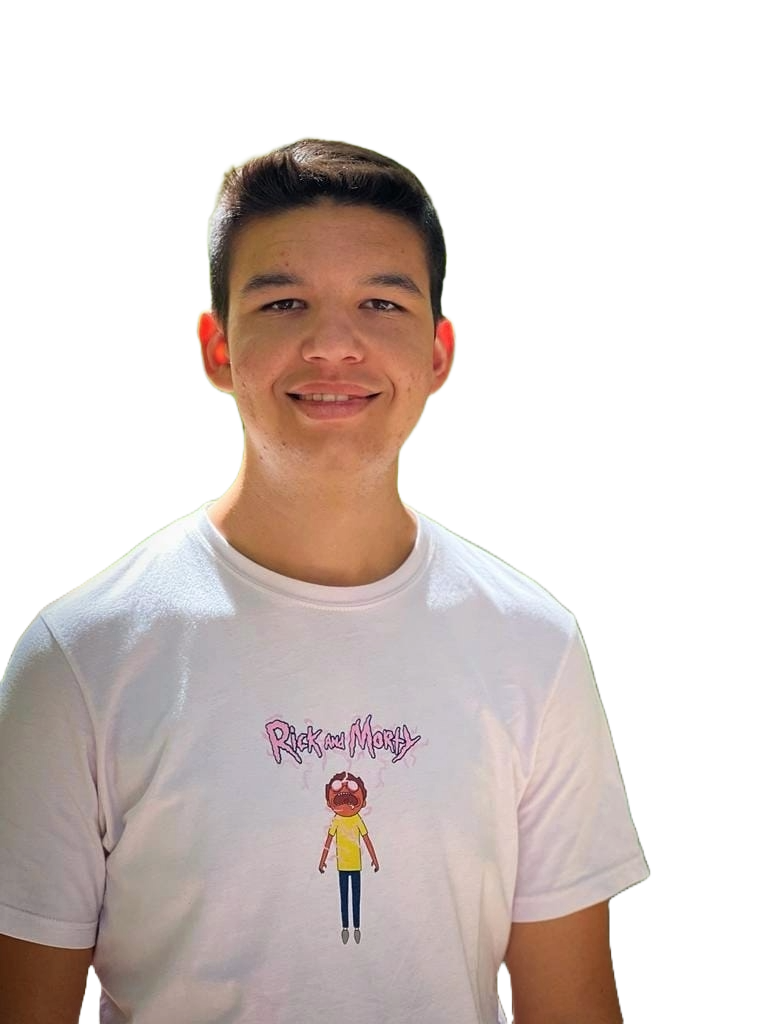
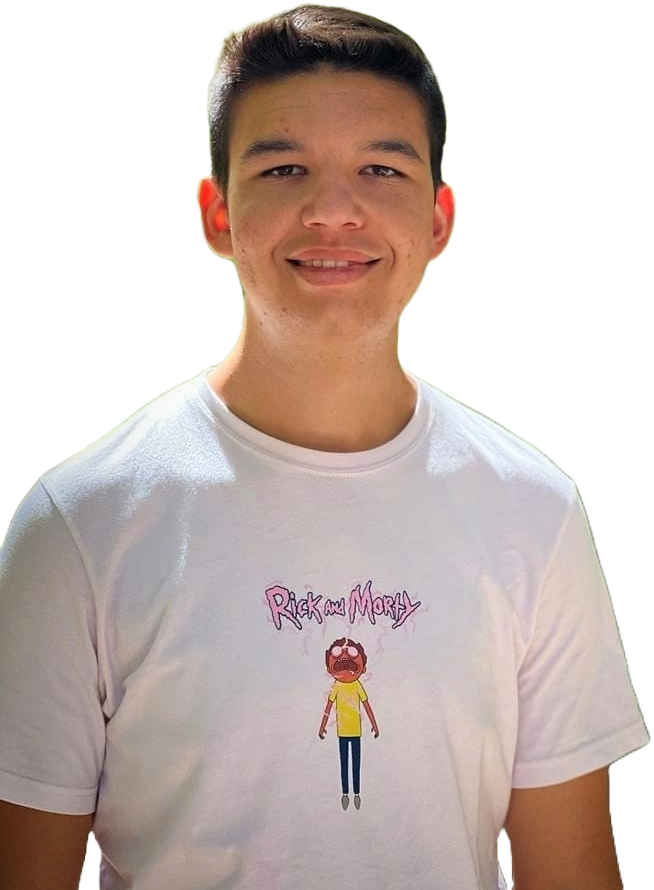
style

diff --git a/Tema6/proyectoWeb_grid/css/style.css b/Tema6/proyectoWeb_grid/css/style.css
@@ -144,6 +144,7 @@ section p {
 main figure {
 
     margin: 0 auto;
+    padding-top: 40px;
 }
 
 .descargar-cv {
@@ -251,7 +252,7 @@ footer .footer-logos .bloqueImagen img {
     #contenedor {
         display: grid;
         grid-template-columns: 1fr 1fr;
-        grid-template-rows: 200px auto 400px;
+        grid-template-rows: 100px auto 400px;
         grid-template-areas:
             "cabecera cabecera"
             "cuerpo cuerpo"
@@ -260,7 +261,56 @@ footer .footer-logos .bloqueImagen img {
 
     main {
         display: flex;
-        gap: 20%;
+        gap: 9%;
+    }
+
+    main section p {}
+
+    .label_hamburguesa {
+        display: none;
+    }
+
+    .header-menu {
+        position: static;
+        width: auto;
+        height: auto;
+        flex-direction: row;
+        gap: 2rem;
+    }
+
+
+
+    nav ul li a:hover {
+        background-color: aqua;
+        color: #191c32;
+        border-radius: 3px;
+        transition: ease-in 0.3s;
+    }
+
+    footer .animacion h2 {
+        margin-left: 40%;
+    }
+
+    main figure {
+        padding-top: 0px;
+    }
+
+}
+
+@media (min-width: 1025px) {
+
+    #contenedor {
+        max-width: 100vw;
+        max-height: 100vh;
+        /*display: grid;
+        grid-template-columns: 1fr 1fr 1fr;
+        grid-template-rows: 200px auto 100px;
+        grid-template-areas:
+            "cabecera cabecera cabecera"
+            "cuerpo cuerpo cuerpo"
+            "pie pie pie";*/
+            display: flex;
+            flex-direction: column;
     }
 
     .label_hamburguesa {
@@ -274,4 +324,37 @@ footer .footer-logos .bloqueImagen img {
         flex-direction: row;
         gap: 2rem;
     }
+
+    main {
+        display: flex;
+        /*gap: 16%;*/
+    }
+
+    main .info-contenido {
+        width: 50%;
+    }
+
+    main .info-contenido p {
+        width: 100%;
+        font-size: 20px;
+    }
+
+    main .mi-imagen{
+       width: 30%;
+       margin-left: 50px;
+    }
+
+    main .mi-imagen img{
+     
+       width: 100%;
+    }
+
+    main figure {
+        padding-top: 0px;
+    }
+
+    header{
+        margin-left: -10px;
+    }
+    
 }
